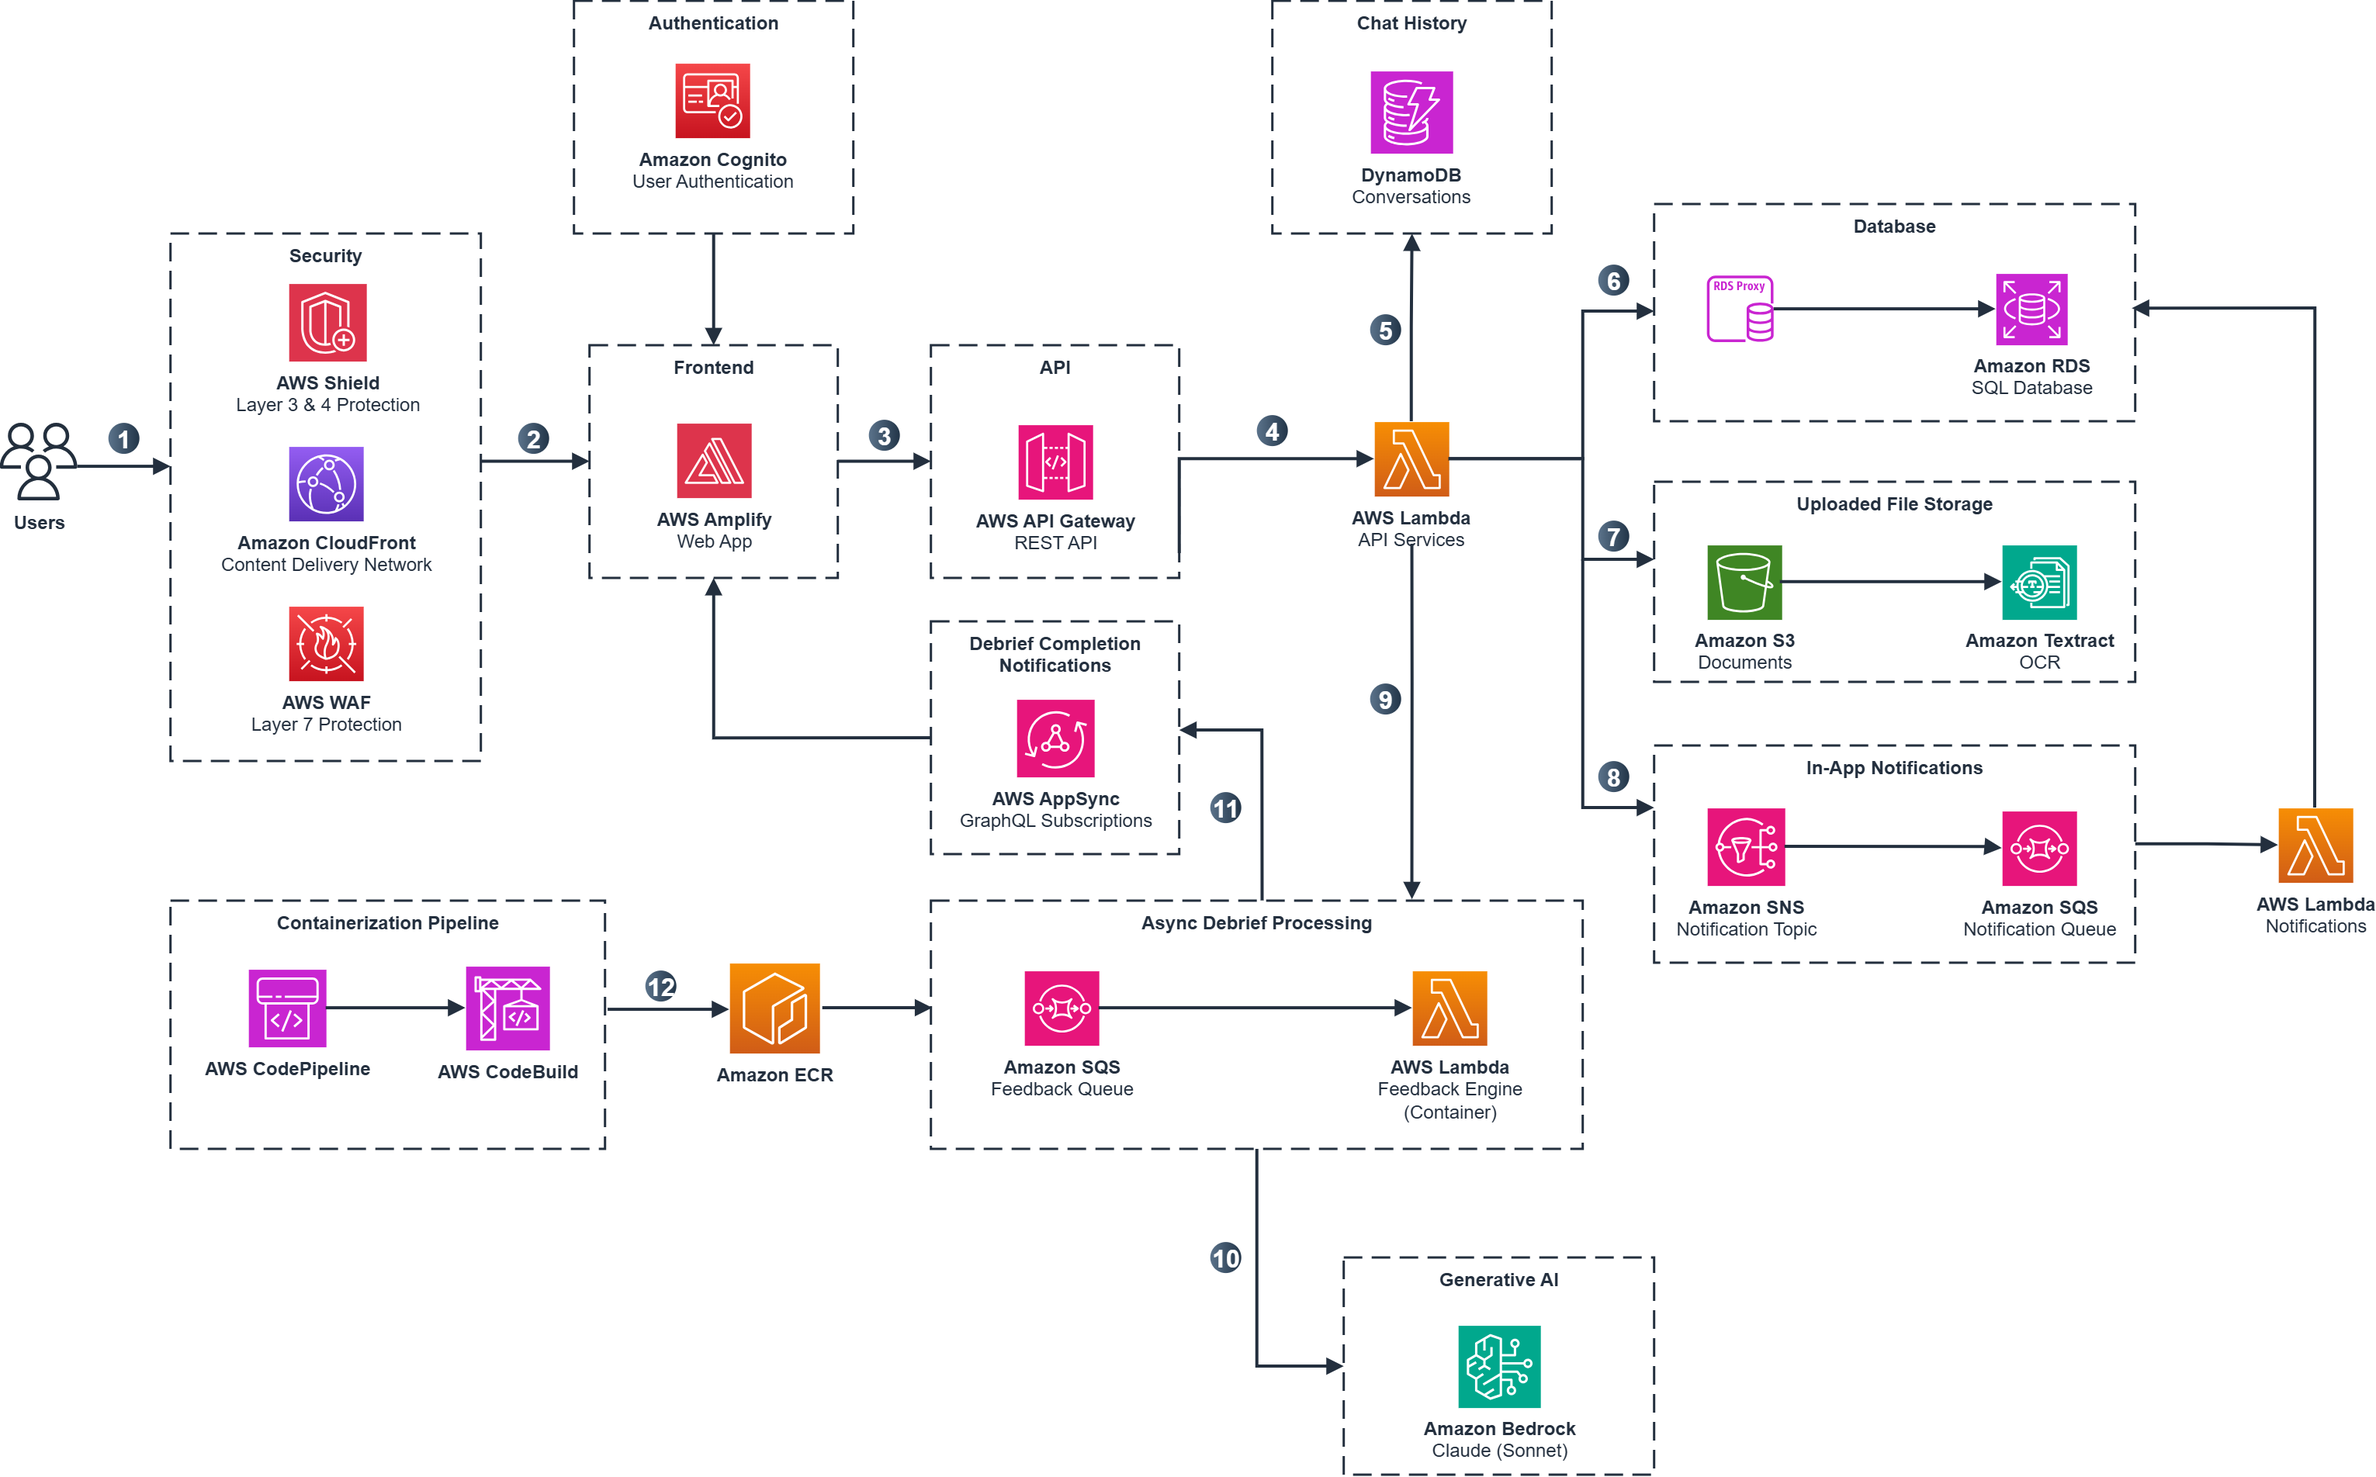
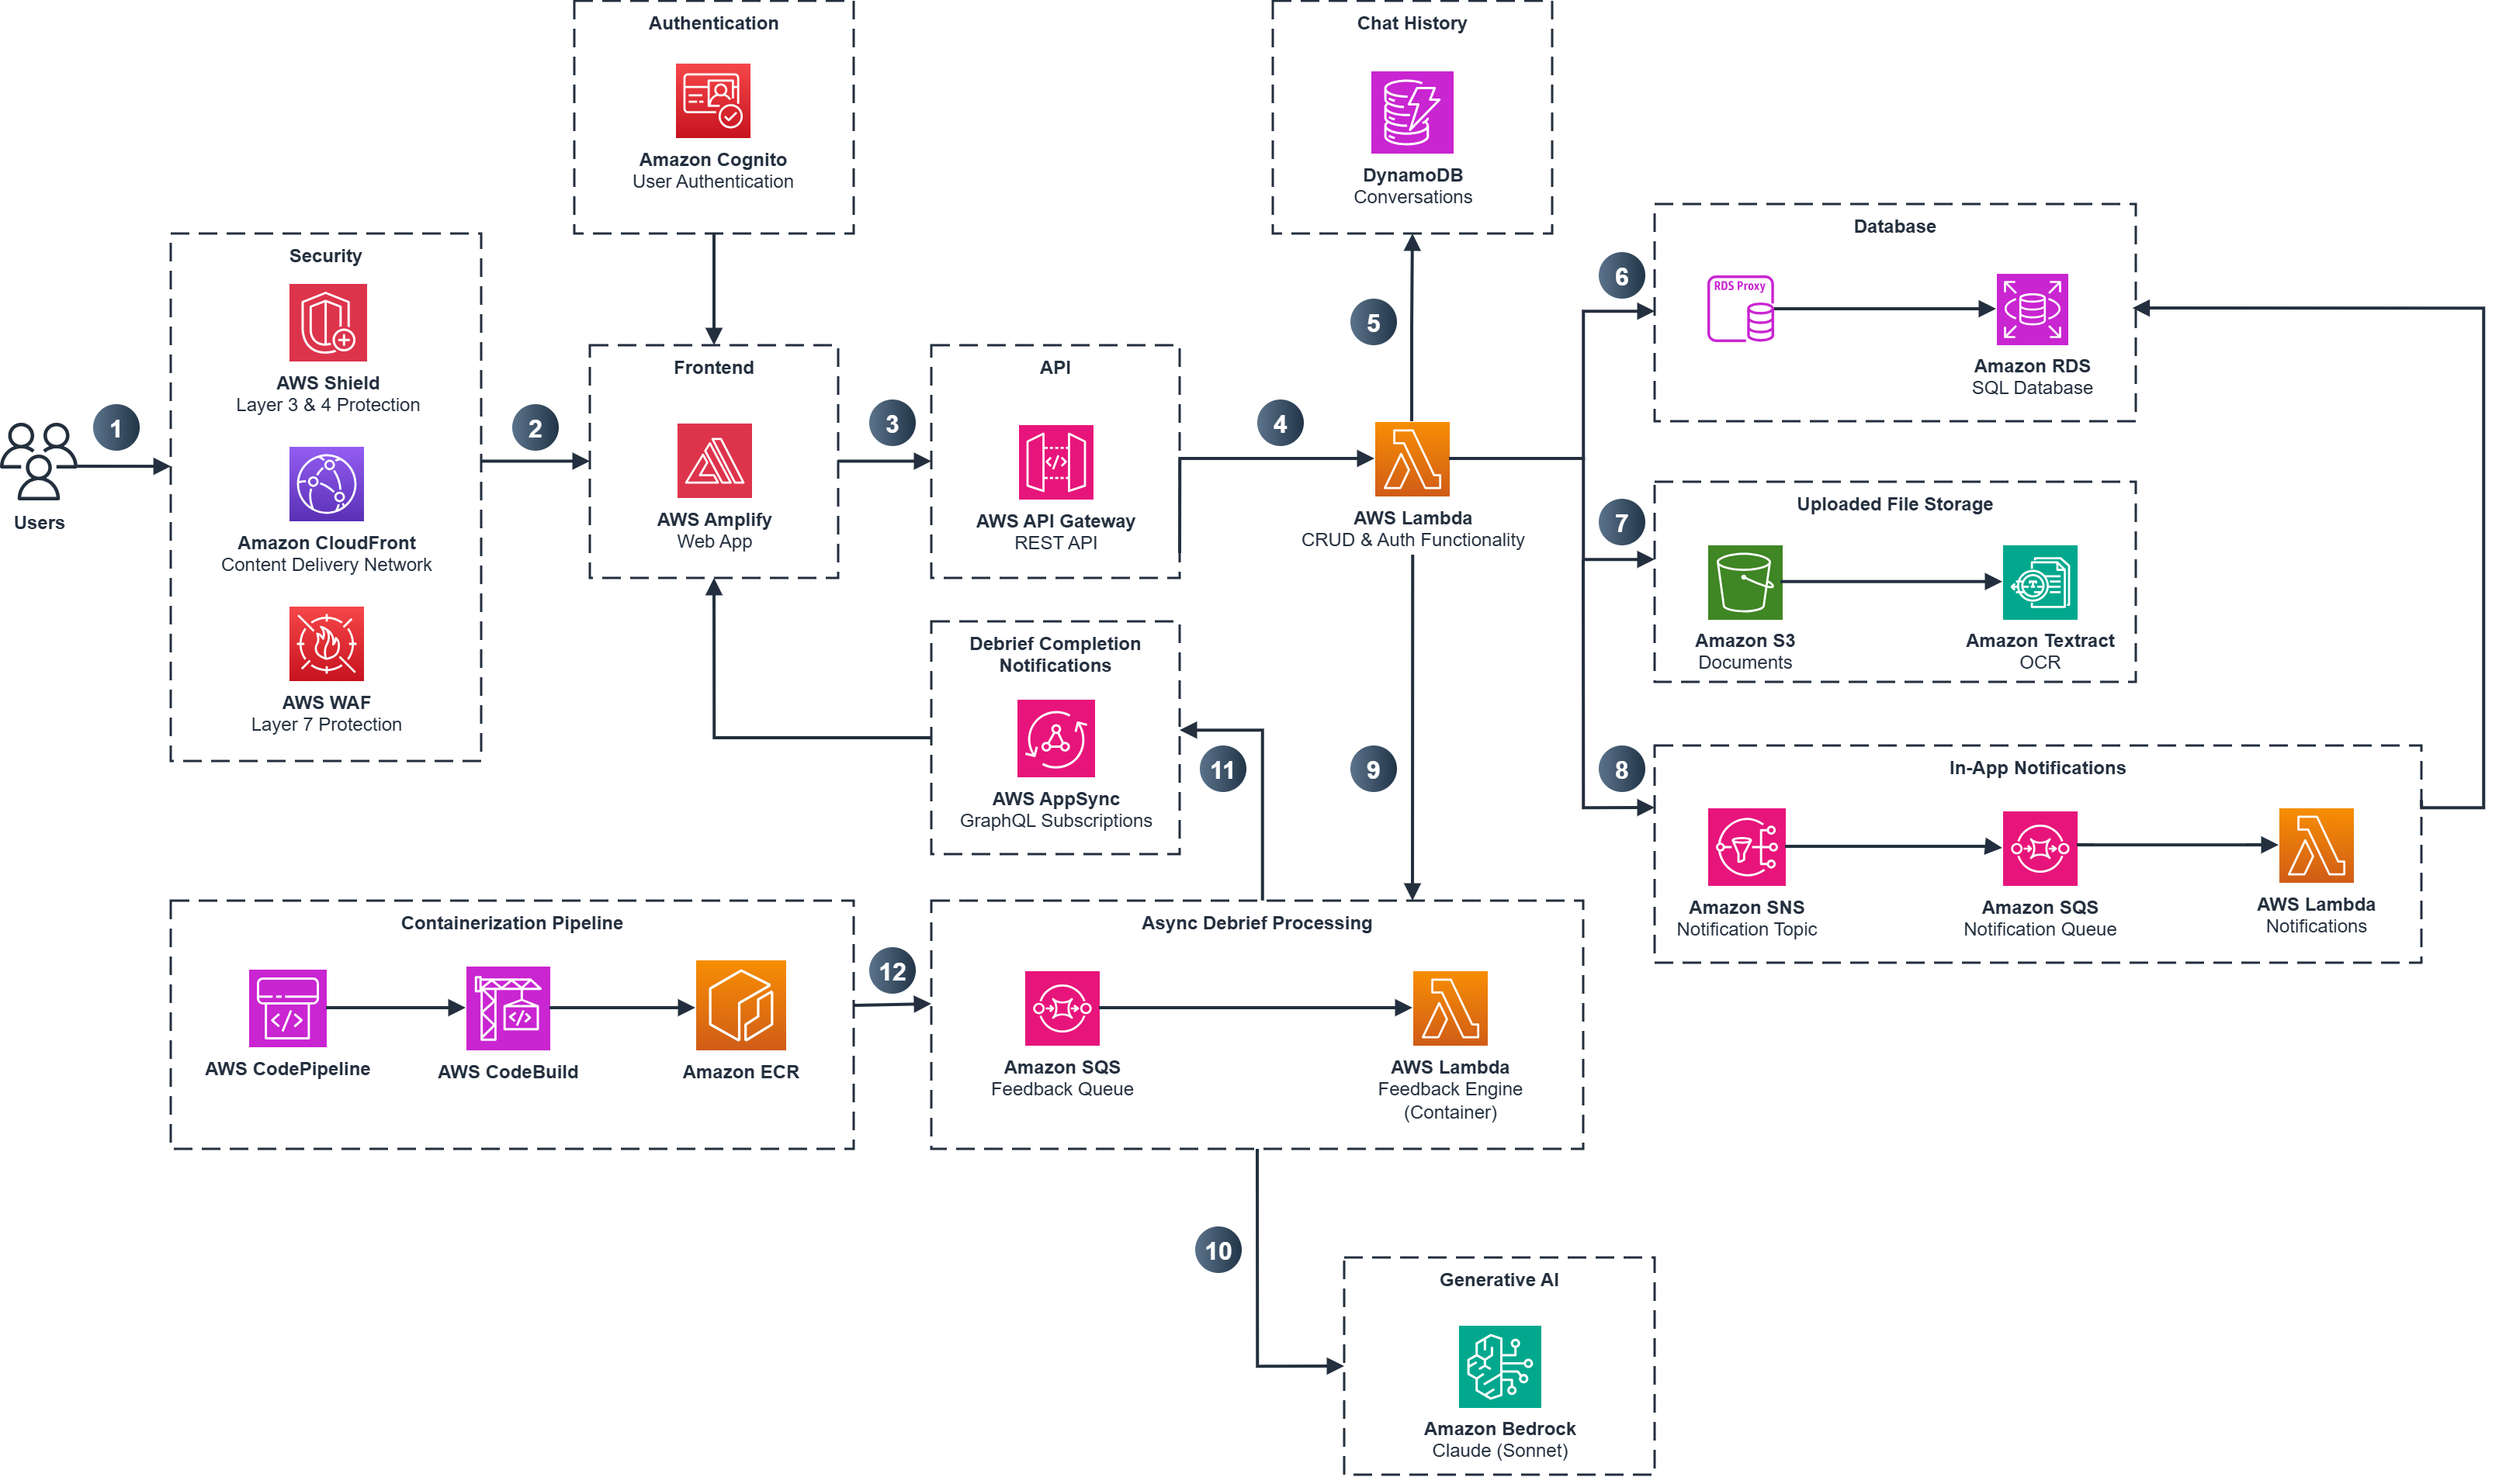
updated architecture diagram to include better grouping, renamed api services lambda to be less ambiguous

diff --git a/README.md b/README.md
@@ -21,7 +21,7 @@ Feedback is generated by a Python engine on AWS Lambda that calls Amazon Bedrock
 
 The following architecture diagram illustrates the AWS components used to deliver the solution. For a numbered walkthrough of request paths and the PostgreSQL schema, see the [Architecture Deep Dive](docs/architecture-deep-dive.md). For debrief generation, the diff engine, anchors, and resolution tracking, see the [Debrief pipeline document](docs/DEBRIEF_ARCHITECTURE_DEEP_DIVE.md).
 
-![Architecture Diagram](docs/WREN_ARCHITECTURE_DIAGRAM.drawio.png)
+![Architecture Diagram](docs/WREN_ARCHITECTURE_DIAGRAM.png)
 
 Numbered variant: [Architecture Diagram (numbered)](docs/WREN_ARCHITECTURE_DIAGRAM_NUMBERED.png). Feedback generation flow: [Feedback Pipeline Diagram](docs/WREN_FEEDBACK_PIPELINE_DIAGRAM.png) (editable source: [`docs/wren-feedback-pipeline.drawio.xml`](docs/wren-feedback-pipeline.drawio.xml)).
 
